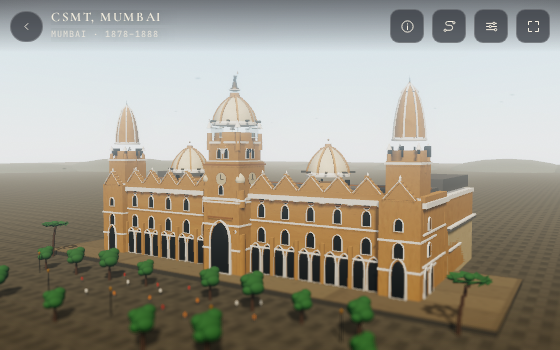
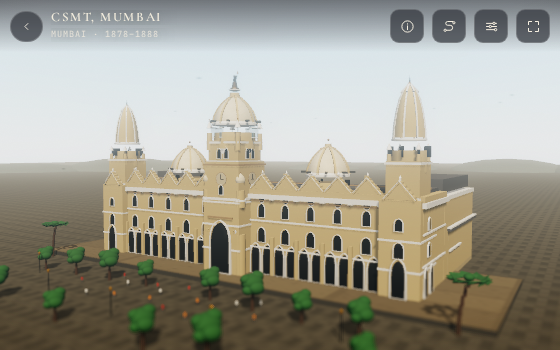
Golden Temple: a two-storey arcade; Somnath and CSMT off untextured tints
The parikrama wings were 9.2 m blocks with square-headed slots. They are two
storeys of white marble arcade now, 12.4 m to the cornice, with arched openings
on both storeys and the chhatris riding up with the parapet. 74k -> 151k
triangles.

Somnath and CSMT were both still tinted off textured bases, so their stone kept
rendering darker than the hex however the hex was set. Both clone 'cream' now —
the tint trap's fourth and fifth victims after Hawa Mahal and the Gateway.
Somnath's default hour also moves to 15.4, where the pale stone reads pale.

Changed region(s): [[0.1821, 0.3714, 0.85, 0.8571], [0.6982, 0.2857, 0.7589, 0.4], [0.2125, 0.3429, 0.2429, 0.4]]

diff --git a/monuments/golden-temple.html b/monuments/golden-temple.html
@@ -8,8 +8,8 @@
 <meta name="theme-color" content="#e0b64a">
 <meta name="author" content="Dr Sohil Momin">
 <link rel="icon" href="../assets/img/favicon.svg" type="image/svg+xml">
-<link rel="stylesheet" href="../assets/css/fonts.css?v=01254cdc2c">
-<link rel="stylesheet" href="../assets/css/monument.css?v=01254cdc2c">
+<link rel="stylesheet" href="../assets/css/fonts.css?v=44b9239887">
+<link rel="stylesheet" href="../assets/css/monument.css?v=44b9239887">
 <meta property="og:type" content="website">
 <meta property="og:title" content="Golden Temple — 3D miniature · INDIA">
 <meta property="og:description" content="Harmandir Sahib, the holiest gurdwara of Sikhism, set on an island in the Amrit Sarovar and clad in gold leaf.">
@@ -31,11 +31,11 @@
 <div id="app"></div>
 <noscript><div class="noscript">This page renders Golden Temple as a live 3D model and needs JavaScript and WebGL. You can still read about the monument on <a href="https://en.wikipedia.org/wiki/Golden_Temple">Wikipedia</a>.</div></noscript>
 
-<script src="../assets/js/index-data.js?v=01254cdc2c"></script>
+<script src="../assets/js/index-data.js?v=44b9239887"></script>
 <script>window.MONUMENT_DATA = {"name": "Golden Temple", "deva": "हरमंदिर साहिब", "place": "Amritsar", "state": "Punjab", "era": "Sikh · founded 1577, gilded 1830", "period": "1577 · 1830", "style": "Sikh architecture", "unesco": "On the UNESCO tentative list", "wikipedia": "https://en.wikipedia.org/wiki/Golden_Temple", "history": ["Guru Ram Das founded the town of Amritsar and began the sacred pool, the Amrit Sarovar, in 1577. His son Guru Arjan completed the Harmandir Sahib at its centre in 1604, placing it lower than the surrounding ground so that visitors step down into it, and giving it four doors facing four directions.", "The shrine was destroyed several times in the eighteenth century and rebuilt; in 1830 Maharaja Ranjit Singh had its upper storeys covered in gold leaf, which gave the building its English name. The gurdwara sits on an island reached by a causeway, its reflection held in the tank.", "The complex includes the Akal Takht, the seat of Sikh temporal authority, a clock tower, offices of the Shiromani Gurdwara Parbandhak Committee, a museum and the langar, a community kitchen that feeds every visitor free of charge, regardless of faith. Around 150,000 people come each day. The site is on UNESCO's tentative list."], "facts": [{"k": "Founded", "v": "1577 by Guru Ram Das"}, {"k": "Harmandir Sahib", "v": "Completed 1604 by Guru Arjan"}, {"k": "Gilded", "v": "1830, under Maharaja Ranjit Singh"}, {"k": "Setting", "v": "Island in the Amrit Sarovar"}, {"k": "Also here", "v": "Akal Takht, langar, museum"}, {"k": "Visitors", "v": "Around 150,000 a day"}], "links": [{"label": "Wikipedia", "href": "https://en.wikipedia.org/wiki/Golden_Temple"}, {"label": "UNESCO tentative list", "href": "https://whc.unesco.org/en/tentativelists/"}, {"label": "Punjab tourism", "href": "https://punjabtourism.punjab.gov.in/"}], "image": {"file": "The_Golden_Temple_of_Amrithsar_7.jpg", "artist": "Shagil Kannur", "license": "CC BY-SA 4.0", "licenseUrl": "https://creativecommons.org/licenses/by-sa/4.0", "page": "https://commons.wikimedia.org/wiki/File:The_Golden_Temple_of_Amrithsar_7.jpg", "src": "assets/img/golden-temple.jpg"}};</script>
 <script type="module">
-  import { boot } from '../assets/js/monument-engine.js?v=01254cdc2c';
-  import monument from '../assets/js/monuments/golden-temple.js?v=01254cdc2c';
+  import { boot } from '../assets/js/monument-engine.js?v=44b9239887';
+  import monument from '../assets/js/monuments/golden-temple.js?v=44b9239887';
   boot(monument);
 </script>
 </body>

diff --git a/monuments/csmt-mumbai.html b/monuments/csmt-mumbai.html
@@ -8,8 +8,8 @@
 <meta name="theme-color" content="#c07a52">
 <meta name="author" content="Dr Sohil Momin">
 <link rel="icon" href="../assets/img/favicon.svg" type="image/svg+xml">
-<link rel="stylesheet" href="../assets/css/fonts.css?v=66dd60dd03">
-<link rel="stylesheet" href="../assets/css/monument.css?v=66dd60dd03">
+<link rel="stylesheet" href="../assets/css/fonts.css?v=a5185639d4">
+<link rel="stylesheet" href="../assets/css/monument.css?v=a5185639d4">
 <meta property="og:type" content="website">
 <meta property="og:title" content="CSMT, Mumbai — 3D miniature · INDIA">
 <meta property="og:description" content="Stevens’ Victorian Gothic terminus: pointed arches, a stone dome and a clock tower over one of the busiest stations in India.">
@@ -31,11 +31,11 @@
 <div id="app"></div>
 <noscript><div class="noscript">This page renders CSMT, Mumbai as a live 3D model and needs JavaScript and WebGL. You can still read about the monument on <a href="https://en.wikipedia.org/wiki/Chhatrapati_Shivaji_Maharaj_Terminus">Wikipedia</a>.</div></noscript>
 
-<script src="../assets/js/index-data.js?v=66dd60dd03"></script>
+<script src="../assets/js/index-data.js?v=a5185639d4"></script>
 <script>window.MONUMENT_DATA = {"name": "CSMT, Mumbai", "deva": "छत्रपति शिवाजी महाराज टर्मिनस", "place": "Mumbai", "state": "Maharashtra", "era": "British Raj · 1878–1888", "period": "1878–1888", "style": "Gothic Revival, Indo-Saracenic", "unesco": "UNESCO World Heritage Site (2004)", "wikipedia": "https://en.wikipedia.org/wiki/Chhatrapati_Shivaji_Maharaj_Terminus", "history": ["Chhatrapati Shivaji Maharaj Terminus, long known as Victoria Terminus, was built in Bombay between 1878 and 1888 to a design by Frederick William Stevens. It was the headquarters and terminus of the Great Indian Peninsula Railway, and it was named for Queen Victoria in her jubilee year.", "Stevens fused Victorian Gothic with Indian palace architecture: pointed arches and flying buttresses, gargoyles and carved animals, a ribbed stone dome with a figure of Progress on top, and a 160-foot clock tower. The plan is a symmetrical cross with the long axis of the platforms running east.", "It remains one of the busiest railway stations in the world, handling more than three million passengers a day, and in 2004 it became a UNESCO World Heritage Site, the first working railway station to be inscribed."], "facts": [{"k": "Built", "v": "1878–1888"}, {"k": "Architect", "v": "Frederick William Stevens"}, {"k": "Style", "v": "Gothic Revival with Indian detail"}, {"k": "Height", "v": "Dome about 26 m; clock tower 49 m"}, {"k": "Still", "v": "A working terminus"}, {"k": "UNESCO", "v": "2004 · ref. 945"}], "links": [{"label": "Wikipedia", "href": "https://en.wikipedia.org/wiki/Chhatrapati_Shivaji_Maharaj_Terminus"}, {"label": "UNESCO listing", "href": "https://whc.unesco.org/en/list/945/"}, {"label": "Indian Railways", "href": "https://indianrailways.gov.in/"}], "image": {"file": "Chhatrapati_shivaji_terminus,_esterno_01.jpg", "artist": "Sailko", "license": "CC BY 3.0", "licenseUrl": "https://creativecommons.org/licenses/by/3.0", "page": "https://commons.wikimedia.org/wiki/File:Chhatrapati_shivaji_terminus,_esterno_01.jpg", "src": "assets/img/csmt-mumbai.jpg"}};</script>
 <script type="module">
-  import { boot } from '../assets/js/monument-engine.js?v=66dd60dd03';
-  import monument from '../assets/js/monuments/csmt-mumbai.js?v=66dd60dd03';
+  import { boot } from '../assets/js/monument-engine.js?v=a5185639d4';
+  import monument from '../assets/js/monuments/csmt-mumbai.js?v=a5185639d4';
   boot(monument);
 </script>
 </body>

diff --git a/monuments/somnath-temple.html b/monuments/somnath-temple.html
@@ -8,8 +8,8 @@
 <meta name="theme-color" content="#d0b890">
 <meta name="author" content="Dr Sohil Momin">
 <link rel="icon" href="../assets/img/favicon.svg" type="image/svg+xml">
-<link rel="stylesheet" href="../assets/css/fonts.css?v=f7aa2507f2">
-<link rel="stylesheet" href="../assets/css/monument.css?v=f7aa2507f2">
+<link rel="stylesheet" href="../assets/css/fonts.css?v=f23ccc31f3">
+<link rel="stylesheet" href="../assets/css/monument.css?v=f23ccc31f3">
 <meta property="og:type" content="website">
 <meta property="og:title" content="Somnath Temple — 3D miniature · INDIA">
 <meta property="og:description" content="The first of the twelve Jyotirlingas, on the Gujarat shore, destroyed and rebuilt many times.">
@@ -31,11 +31,11 @@
 <div id="app"></div>
 <noscript><div class="noscript">This page renders Somnath Temple as a live 3D model and needs JavaScript and WebGL. You can still read about the monument on <a href="https://en.wikipedia.org/wiki/Somnath_temple">Wikipedia</a>.</div></noscript>
 
-<script src="../assets/js/index-data.js?v=f7aa2507f2"></script>
+<script src="../assets/js/index-data.js?v=f23ccc31f3"></script>
 <script>window.MONUMENT_DATA = {"name": "Somnath Temple", "deva": "सोमनाथ मंदिर", "place": "Prabhas Patan", "state": "Gujarat", "era": "Rebuilt · 1951", "period": "rebuilt 1951", "style": "Kailash Mahameru Prasad, Chalukya revival", "unesco": "—", "wikipedia": "https://en.wikipedia.org/wiki/Somnath_temple", "history": ["Somnath, at Prabhas Patan on the Saurashtra coast, is the first of the twelve Jyotirlingas of Shiva. It has been destroyed and rebuilt repeatedly: sacked by Mahmud of Ghazni in 1026 and again in later centuries, and raised each time on the same shore.", "The present temple was rebuilt between 1950 and 1951 on the initiative of Sardar Vallabhbhai Patel, who died before it was finished; the work was completed under K. M. Munshi. It follows the Kailash Mahameru Prasad style, with a 50-metre shikhara, a pillared hall and a spire carrying a flag that is changed three times a day.", "The temple has been rebuilt six times on the same shore. The present building stands within sight of the Arabian Sea, and the granite for it was brought from the other side of the continent."], "facts": [{"k": "First Jyotirlinga", "v": "Of the twelve"}, {"k": "Sacked", "v": "1026, by Mahmud of Ghazni"}, {"k": "Present temple", "v": "Rebuilt 1950–1951"}, {"k": "Championed by", "v": "Sardar Vallabhbhai Patel"}, {"k": "Height", "v": "Shikhara about 50 m"}, {"k": "On", "v": "The Arabian Sea, Saurashtra"}], "links": [{"label": "Wikipedia", "href": "https://en.wikipedia.org/wiki/Somnath_temple"}, {"label": "Temple trust", "href": "https://somnath.org/"}, {"label": "Gujarat tourism", "href": "https://www.gujarattourism.com/"}], "image": {"file": "Somanath_mandir_(cropped).jpg", "artist": "B. SurajPatro1997", "license": "CC BY-SA 4.0", "licenseUrl": "https://creativecommons.org/licenses/by-sa/4.0", "page": "https://commons.wikimedia.org/wiki/File:Somanath_mandir_(cropped).jpg", "src": "assets/img/somnath-temple.jpg"}};</script>
 <script type="module">
-  import { boot } from '../assets/js/monument-engine.js?v=f7aa2507f2';
-  import monument from '../assets/js/monuments/somnath-temple.js?v=f7aa2507f2';
+  import { boot } from '../assets/js/monument-engine.js?v=f23ccc31f3';
+  import monument from '../assets/js/monuments/somnath-temple.js?v=f23ccc31f3';
   boot(monument);
 </script>
 </body>

diff --git a/assets/js/monuments/golden-temple.js b/assets/js/monuments/golden-temple.js
@@ -368,12 +368,14 @@ export default {
       block('marbleWarm', horiz ? len : PR, 0.5, horiz ? PR : len,
         horiz ? 0 : s * (inner + PR / 2), -0.5, horiz ? s * (inner + PR / 2) : 0);
 
-      // the wing itself: a two-storey white marble block with a parapet
-      block('marble', w, 9.2, d, cx, 0, cz);
-      add('marble', box(w + 0.8, 0.55, d + 0.8), cx, 9.45, cz);       // cornice
-      block('marbleWarm', w - 0.4, 1.0, d - 0.4, cx, 9.2, cz);        // parapet
-      add('marble', box(w - 0.1, 0.22, d - 0.1), cx, 10.2, cz);
-      add('marble', box(w + 0.4, 0.2, d + 0.4), cx, 5.1, cz);         // string course
+      /* The wings were 9.2 m blocks with square-headed slots. The parikrama
+         buildings are two full storeys of white marble arcade, ~12.5 m to the
+         cornice, with arched openings and a balustraded parapet. */
+      block('marble', w, 12.4, d, cx, 0, cz);
+      add('marble', box(w + 0.8, 0.55, d + 0.8), cx, 12.65, cz);      // cornice
+      block('marbleWarm', w - 0.4, 1.0, d - 0.4, cx, 12.4, cz);       // parapet
+      add('marble', box(w - 0.1, 0.22, d - 0.1), cx, 13.4, cz);
+      add('marble', box(w + 0.4, 0.2, d + 0.4), cx, 6.4, cz);         // string course
 
       // arcade facing the tank: tall lower arches, small windows above
       const n = Math.round(len / 5.6);
@@ -382,13 +384,16 @@ export default {
         const t = -len / 2 + (i + 0.5) * (len / n);
         const px = horiz ? t : s * (walkOut + 0.25);
         const pz = horiz ? s * (walkOut + 0.25) : t;
-        add('dark', box(3.9, 5.2, 0.5), px, 2.7, pz, { ry });
-        add('marble', box(4.6, 0.4, 0.6), px, 5.45, pz, { ry });
-        add('dark', box(2.0, 2.4, 0.35), px, 7.4, pz, { ry });
-        add('marble', box(2.5, 0.25, 0.45), px, 8.7, pz, { ry });
+        // ground arcade: an arch, not a slot, in a marble surround
+        add('dark', arch(3.4, 4.9, 0.5), px, 0.3, pz - 0.12, { ry });
+        add('marble', archFrame(4.2, 5.5, 0.30, 0.5), px, 0.3, pz - 0.04, { ry });
+        // upper storey: a smaller arched window over each bay
+        add('dark', arch(1.9, 2.7, 0.35), px, 7.3, pz - 0.12, { ry });
+        add('marble', archFrame(2.5, 3.2, 0.24, 0.4), px, 7.3, pz - 0.04, { ry });
+        add('marble', box(2.9, 0.22, 0.5), px, 10.7, pz, { ry });
         const tm = t + (len / n) / 2;
         if (i < n - 1) {
-          add('marble', box(0.7, 9.0, 0.7), horiz ? tm : s * (walkOut + 0.3), 4.5,
+          add('marble', box(0.7, 12.2, 0.7), horiz ? tm : s * (walkOut + 0.3), 6.1,
             horiz ? s * (walkOut + 0.3) : tm);
         }
       }
@@ -397,9 +402,9 @@ export default {
         const t = -len / 2 + (i + 0.5) * (len / Math.max(2, Math.round(len / 22)));
         const px = horiz ? t : s * (walkOut + WING / 2);
         const pz = horiz ? s * (walkOut + WING / 2) : t;
-        add('marble', cyl(0.95, 1.05, 0.9, 10), px, 10.6, pz);
-        add('marble', dome(0.98, 1.15, 14), px, 11.05, pz);
-        add(GD, sph(0.09, 6), px, 12.35, pz);
+        add('marble', cyl(0.95, 1.05, 0.9, 10), px, 13.6, pz);
+        add('marble', dome(0.98, 1.15, 14), px, 14.05, pz);
+        add(GD, sph(0.09, 6), px, 15.35, pz);
       }
     });
 

diff --git a/assets/js/monuments/somnath-temple.js b/assets/js/monuments/somnath-temple.js
@@ -24,7 +24,7 @@ export default {
   accent2: '#e4d2b4',
   seed: 107,
   floodScale: 0.3,
-  time: 10.6,
+  time: 15.4,          // a warm afternoon: at 10.6 the pale stone read grey-brown
   bounds: 82,
   minDist: 20,
   maxDist: 300,
@@ -90,7 +90,10 @@ export default {
       if (rough !== undefined) c.roughness = rough;
       return c;
     };
-    const ST = tint('basalt', 0xd9cfb4), ST2 = tint('basalt', 0xc2b598), TR = 'cream', DK = 'dark', GD = 'gold';
+    // Cloned from 'cream', which has no texture map. Off 'basalt' the stone
+    // map multiplied the hex down by half, which is why the temple kept
+    // rendering grey-brown however light the tint was set.
+    const ST = tint('cream', 0xd9cfb4), ST2 = tint('cream', 0xc2b598), TR = 'cream', DK = 'dark', GD = 'gold';
 
     const TERR = 2.7;                    // top of the terrace
     const MZ = 6;                        // sabhamandapa centre, z

diff --git a/assets/js/monuments/csmt-mumbai.js b/assets/js/monuments/csmt-mumbai.js
@@ -81,11 +81,11 @@ export default {
       if (rough !== undefined) c.roughness = rough;
       return c;
     };
-    const ST = tint('sandstoneBuff', 0xe6d3a6);   // Kurla stone, a pale warm buff
+    const ST = tint('cream', 0xd8bd88);           // Kurla stone — off an untextured base, or the map halves it
     const TR = 'white';                           // white stone dressings
-    const RD = tint('sandstoneBuff', 0xbfa074);   // string courses, in a deeper stone
+    const RD = tint('cream', 0xb2946a);           // string courses, in a deeper stone
     const OP = 'dark';
-    const RF = tint('grey', 0x6b6660, 0.9);       // grey roof, not red tile
+    const RF = tint('cream', 0x6b6660, 0.9);      // grey roof, not red tile
     const IR = 'grey';
 
     /* ---- measured levels ------------------------------------------------ */

diff --git a/HANDOFF.md b/HANDOFF.md
@@ -437,6 +437,24 @@ repo-wide key rename.
 
 ---
 
+### 17. Golden Temple wings, and the tint trap's fourth and fifth victims
+
+**Parikrama.** The wings were 9.2 m blocks with square-headed slots. They are two
+full storeys of white marble arcade now, 12.4 m to the cornice, with **arched**
+openings (arch + archFrame) on both storeys, a string course, a parapet and the
+chhatris riding up with it. 74k -> 151k triangles: arches cost more than boxes.
+
+**Somnath and CSMT** were both still tinted off **textured** bases, so their
+stone kept rendering darker than the hex however the hex was set. Both are
+cloned from `cream` now. That is the trap's fourth and fifth victim — Hawa Mahal
+and the Gateway were the first two. Somnath's default hour also moved 10.6 ->
+15.4; at 10.6 the pale stone read grey-brown from the home camera.
+
+`tools/tintcheck.py` still reports 7 clones on textured bases, all deliberate
+(a dark niche, a grey roof, Konark's stone). Run it after any colour work.
+
+---
+
 ## Traps worth knowing
 
 These cost real time last session. All are true.
